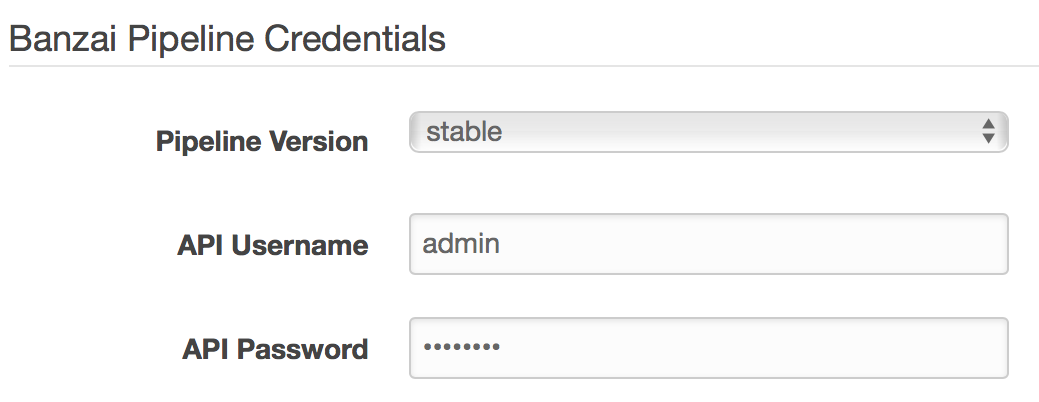
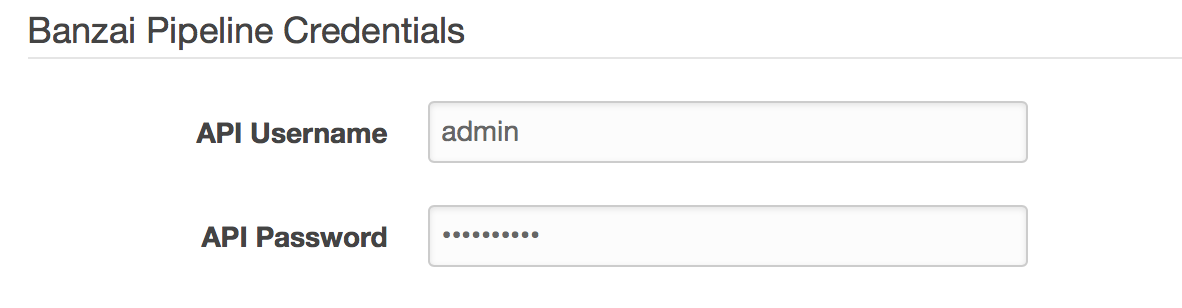
Pipeline 0.2.0 howto

diff --git a/docs/pipeline-howto-0.2.0.md b/docs/pipeline-howto-0.2.0.md
@@ -1,0 +1,320 @@
+Starting from the [0.2.0](https://github.com/banzaicloud/pipeline/tree/0.2.0) version Pipeline supports managed Kubernetes clusters on Azure ([AKS](https://docs.microsoft.com/en-us/azure/aks/) as well.
+
+For simplicity the instruction steps are presented through an example specifically how to hook a Spark application one develops into CI/CD workflow to run it on Kubernetes on Azure.
+
+### Getting Started
+
+It's assumed that the source of the Spark application is stored in [GitHub](http://github.com) and the user has an [Azure](https://portal.azure.com) subscription with AKS service enabled.
+The [Pipeline Control Plane](https://github.com/banzaicloud/pipeline-cp-launcher/tree/0.2.0) takes care of creating a Kubernetes cluster on the desired cloud provider and executing the steps of the CI/CD flow can be hosted on both `AWS` and `Azure`.
+See details below for how to launch `Pipeline Control Plane` on `AWS` and `Azure`.
+
+### Prerequisites
+
+1. Account on [GitHub](http://github.com)
+1. Repository on [GitHub](http://github.com) for the Spark application source code
+1. Hosting `Pipeline Control Plane` and creating Kubernetes clusters on `AWS`
+   1. [AWS](https://portal.aws.amazon.com/billing/signup?type=enterprise#/start) account
+   1. AWS [EC2 key pair](http://docs.aws.amazon.com/AWSEC2/latest/UserGuide/ec2-key-pairs.html)
+1. Hosting `Pipeline Control Plane` and creating Kubernetes clusters on `Azure`
+   1. [Azure](https://portal.azure.com) subscription with AKS service enabled.
+   1. Obtain a Client Id, Client Secret and Tenant Id for a Microsoft Azure Active Directory. These information can be retrieved from the portal, but the easiest and fastest way is to use the Azure CLI tool.<br>  
+    ```sh
+    curl -L https://aka.ms/InstallAzureCli | bash
+    exec -l $SHELL
+    az login
+
+    az ad sp create-for-rbac
+    ```
+    You should get something like:
+
+    ```json
+    {
+
+      "appId": "1234567-1234-1234-1234-1234567890ab",
+      "displayName": "azure-cli-2017-08-18-19-25-59",
+      "name": "http://azure-cli-2017-08-18-19-25-59",
+      "password": "1234567-1234-1234-be18-1234567890ab",
+      "tenant": "7654321-1234-1234-ee18-9876543210ab"
+    }
+    ```
+
+    * `appId` is the Azure Client Id
+    * `password` is the Azure Client Secret
+    * `tenant` is the Azure Tenant Id
+
+    In order to get Azure Subscription Id run:
+
+    ```sh
+    az account show --query id
+    ```
+
+### Register the OAuth application on GitHub
+
+Register an [OAuth](https://developer.github.com/apps/building-integrations/setting-up-and-registering-oauth-apps/registering-oauth-apps/) application on GitHub for the Pipeline CI/CD workflow.
+
+<a href="images/howto/OAuthAppReg.png" target="_blank"><img src="images/howto/OAuthAppReg.png" height="250"></a>
+
+Fill in `Authorization callback URL` with some dummy value at this stage. This field will be updated once the Control Plane is up and running using the IP address or the DNS name.
+
+Take note of the `Client ID` and `Client Secret` as these will be required for launching the Pipeline Control Plane.
+
+<a href="images/howto/OAuthAppId.png" target="_blank"><img src="images/howto/OAuthAppId.png" height="250"></a>
+
+### Launch Pipeline Control Plane on `AWS`
+
+The easiest way for running a Pipeline Control Plane is to use a [Cloudformation](https://aws.amazon.com/cloudformation/) template.
+
+* Navigate to: https://eu-west-1.console.aws.amazon.com/cloudformation/home?region=eu-west-1#/stacks/new
+
+* Select `Specify an Amazon S3 template URL` and add the URL to our template `https://s3-eu-west-1.amazonaws.com/cf-templates-grr4ysncvcdl-eu-west-1/2018026v2c-new.templatedf0gpwyv0gg`
+
+  <a href="images/howto/ControlPlaneFromTemplate.png" target="_blank"><img src="images/howto/ControlPlaneFromTemplate.png" height="230"></a>
+
+* Fill in the following fields on the form:
+
+  * **Stack name**
+    * specify a name for the Control Plane deployment
+
+      <a href="images/howto/StackName.png"><img src="images/howto/StackName.png" height="130"></a>
+
+  * **AWS Credentials**
+     * Amazon access key id - specify your [access key id](http://docs.aws.amazon.com/general/latest/gr/aws-sec-cred-types.html#access-keys-and-secret-access-keys)
+     * Amazon secret access key - specify your [secret access key](http://docs.aws.amazon.com/general/latest/gr/aws-sec-cred-types.html#access-keys-and-secret-access-keys)
+
+     <a href="images/howto/AwsCred.png"><img src="images/howto/AwsCred.png" height="150"></a>
+
+  * **Azure Credentials and Information** - _needed only for creating Kubernetes clusters on `Azure`_
+     * AzureClientId - see how to get Azure Client Id above
+     * AzureClientSecret - see how to get Azure Client Secret above
+     * AzureSubscriptionId - your Azure Subscription Id
+     * AzureTenantId - see how to get Azure Client Tenant Id above
+
+     <a href="images/howto/AzureCred.png"><img src="images/howto/AzureCred.png" height="200"></a>
+
+  * **Control Plane Instance Config**
+     * InstanceName - name of the EC2 instance that will host the Control Plane
+     * ImageId - pick the image id from the  [README](https://github.com/banzaicloud/pipeline-cp-launcher/blob/0.2.0/README.md)
+     * KeyName - specify your AWS [EC2 key pair](http://docs.aws.amazon.com/AWSEC2/latest/UserGuide/ec2-key-pairs.html)
+
+     <a href="images/howto/ControlPlaneInstanceConfig.png"><img src="images/howto/ControlPlaneInstanceConfig.png" height="180"></a>
+
+  * **Banzai Pipeline Credentials**
+     * Pipeline API Password - specify the password for accessing the Pipeline REST [API](https://github.com/banzaicloud/pipeline/blob/0.2.0/docs/create.md) exposed by the Pipeline PaaS. **_Take note of the user name and password as those will be required when setting the [secrets](#repository-secrets) for the GitHub repositories in the CI/CD workflow._**
+
+      <a href="images/howto/PipelineCred.png"><img src="images/howto/PipelineCred.png" height="150"></a>
+
+  * **Banzai-Ci Credentials**
+     * Orgs - comma-separated list of Github organizations whose members to grant access to use Banzai Cloud Pipeline's CI/CD workflow
+     * Github Client - GitHub OAuth `Client Id`
+     * Github Secret - Github OAuth `Client Secret`
+
+      <a href="images/howto/CloudFormulationDetails3.png"><img src="images/howto/CloudFormulationDetails3.png" height="150"></a>
+
+  * **Grafana Dashboard**
+     * Grafana Dashboard Password - specify password for accessing Grafana dashboard with defaults specific to the application
+
+     <a href="images/howto/GrafanaCred.png"><img src="images/howto/GrafanaCred.png" height="100"></a>
+
+  * **Prometheus Dashboard**
+     * Prometheus Password - specify password for accessing Prometheus that collects cluster metrics
+
+      <a href="images/howto/PrometheusCred.png"><img src="images/howto/PrometheusCred.png" height="100"></a>
+
+  * **Advanced Pipeline Options**
+     * PipelineImageTag - specify `0.2.0` for using current stable Pipeline release.
+
+     <a href="images/howto/AdvencedPipOpt.png"><img src="images/howto/AdvencedPipOpt.png" height="150"></a>
+
+  * **Slack Credentials**
+       * this section is optional. Complete this section to receive  cluster related alerts through a [Slack](https://slack.com) push notification channel.
+
+  * **Alert SMTP Credentials**
+     * this section is optional. Fill this section to receive cluster related alerts through email.
+
+* Finish the wizard to create a `Control Plane` instance.
+* Take note of the PublicIP of the created Stack. We refer to this as the PublicIP of `Control Plane`.
+
+    <a href="images/howto/CloudFormulationDetails5.png"><img src="images/howto/CloudFormulationDetails5.png" height="250"></a>
+
+* Go back to the earlier created GitHub OAuth application and modify it. Set the `Authorization callback URL` field to `http://{control_plane_public_ip}/authorize`
+
+  <a href="images/howto/OAuthCallback.png"><img src="images/howto/OAuthCallback.png" height="70"></a>
+
+### Launch Pipeline Control Plane on `Azure`
+
+The easiest way for running a Pipeline Control Plane is deploying it using an [ARM](https://docs.microsoft.com/en-us/azure/azure-resource-manager/resource-group-overview)(https://aws.amazon.com/cloudformation/) template.
+
+* Navigate to: https://portal.azure.com/#create/Microsoft.Template
+
+* Click `Build your own template in editor` and copy-paste the content of [ARM template](https://raw.githubusercontent.com/banzaicloud/pipeline-cp-launcher/0.2.0/control-plane-arm.json) into the editor then click `Save`
+
+  <a href="images/howto/ARMCreate.png" target="_blank"><img src="images/howto/ARMCreate.png" height="130"></a><br>
+  <a href="images/howto/ARMEditor.png" target="_blank"><img src="images/howto/ARMEditor.png" height="230"></a>
+
+  * **Resource group** - We recommend creating a new `Resource Group` for the deployment as later will be easier to clean up all the resources created by the deployment
+
+    <a href="images/howto/ARMRGroup.png" target="_blank"><img src="images/howto/ARMRGroup.png" height="180"></a>
+
+  * **Specify SSH Public Key**
+
+    <a href="images/howto/ARMPubKey.png" target="_blank"><img src="images/howto/ARMPubKey.png" height="110"></a>
+
+  * **SMTP Server Address/User/Password/From**
+    * these are optional. Fill this section to receive cluster related alerts through email.
+
+  * **Slack Webhook Url/Channel**
+    * this section is optional. Complete this section to receive  cluster related alerts through a [Slack](https://slack.com) push notification channel.
+
+  * **Banzai Pipeline Credentials**
+     
+     * Pipeline Password - specify the password for accessing the Pipeline REST [API](https://github.com/banzaicloud/pipeline/blob/0.2.0/docs/create.md) exposed by the Pipeline PaaS. **_Take note of the user name and password as those will be required when setting the [secrets](#repository-secrets) for the GitHub repositories in the CI/CD workflow._**
+
+      <a href="images/howto/ARMPiCred.png"><img src="images/howto/ARMPiCred.png" height="70"></a>
+
+   * **Prometheus Dashboard**
+     * Prometheus Password - specify password for accessing Prometheus that collects cluster metrics
+
+      <a href="images/howto/ARMPrometheusCred.png"><img src="images/howto/ARMPrometheusCred.png" height="70"></a>
+
+  * **Grafana Dashboard**
+     * Grafana Dashboard Password - specify password for accessing Grafana dashboard with defaults specific to the application
+
+     <a href="images/howto/ARMGrafanaCred.png"><img src="images/howto/ARMGrafanaCred.png" height="70"></a>
+  
+  * **Banzai-Ci Credentials**
+     * Orgs - comma-separated list of Github organizations whose members to grant access to use Banzai Cloud Pipeline's CI/CD workflow
+     * Github Client - GitHub OAuth `Client Id`
+     * Github Secret - Github OAuth `Client Secret`
+
+      <a href="images/howto/ARMCICD.png"><img src="images/howto/ARMCICD.png" height="90"></a>
+
+  * **Azure Credentials and Information**
+     * Azure Client Id - see how to get Azure Client Id above
+     * Azure Client Secret - see how to get Azure Client Secret above
+     * Azure Subscription Id - your Azure Subscription Id
+     * Azure Tenant Id - see how to get Azure Tenant Id above
+
+     <a href="images/howto/images/howto/ARMAzureCreds.png"><img src="images/howto/ARMAzureCreds.png" height="130"></a>
+
+  * Finish the wizard to create a `Control Plane` instance.
+  * Open the `Resource Group` that was specified for the deployment
+
+      <a href="images/howto/CPRGroup.png"><img src="images/howto/CPRGroup.png" height="90"></a>
+
+  * Take note of the PublicIP of the deployed `Control Plane`.
+
+    <a href="images/howto/AzureCPPubIP.png"><img src="images/howto/AzureCPPubIP.png" height="200"></a>
+
+### Define `.pipeline.yml` pipeline workflow configuration for your Spark application
+
+The steps of the workflow executed by the CI/CD flow are described in the  `.pipeline.yml` file that must be placed under the root directory of the source code of the Spark application. The file has to be pushed into the GitHub repo along with the source files of the application.
+
+There is an example Spark application [spark-pi-example](https://github.com/banzaicloud/spark-pi-example/tree/0.2.0) that can be used for trying out the CI/CD pipeline.
+
+>Note: Fork this repository into your own repository for this purpose!).
+
+For setting up your own spark application for the workflow you can start from the `.pipeline.yml` configuration file from `spark-pi-example` and customize it.
+
+The following sections needs to be modified:
+
+- the command for building your application
+
+  ```yaml
+  remote_build:
+    ...
+    original_commands:
+      - mvn clean package -s settings.xml
+  ```
+
+- the Main class of your application
+
+  ```yaml
+  run:
+    ...
+    spark_class: banzaicloud.SparkPi
+  ```
+
+- the name of your application
+
+  ```yaml
+  run:
+    ...
+    spark_app_name: sparkpi
+  ```
+
+- the application artifact
+
+  This is the relative path to the `jar` of your Spark application. This is the `jar` generated by the [build command](#command-for-building-your-application)
+
+  ```yaml
+  run:
+    ...
+    spark_app_source: target/spark-pi-1.0-SNAPSHOT.jar
+  ```
+
+-  the application arguments
+
+  ```yaml
+  run:
+    ...
+    spark_app_args: 1000
+  ```
+
+### Grant access to desired GitHub organizations
+
+Navigate to `http://{control_plane_public_ip}` in your web browser and grant access for the organizations that contain the GitHub repositories that you want to hook into the CI/CD workflow. Then click authorize access.
+
+All the services of the Pipeline may take some time to fully initialize, thus the page may not load at first. Please give it some time and retry.
+
+### Hook repositories to CI/CD flow
+
+Navigate to `http://{control_plane_public_ip}`  - this will bring you to the CI/CD user interface. Select `Repositories` from top left menu. This will list all the repositories that the Pipeline has access to.
+Select repositories desired to be hooked to the CI/CD flow.
+
+<a href="images/howto/EnableRepoCI.png" target="_blank"><img src="images/howto/EnableRepoCI.png"></a>
+
+### CI/CD secrets
+
+For the hooked repositories set the following secrets :
+
+<a href="images/howto/RepoSecretCI.png" target="_blank"><img src="images/howto/RepoSecretCI.png"></a>
+<a href="images/howto/RepoSecretMenuCI.png" target="_blank"><img src="images/howto/RepoSecretMenuCI.png"></a>
+
+* `plugin_endpoint` - specify `http://{control_plane_public_ip}/pipeline/api/v1`
+
+  <a href="images/howto/RepoSecretPluginEndPointCI.png" target="_blank"><img src="images/howto/RepoSecretPluginEndPointCI.png"></a>
+
+* `plugin_username` - specify the same user name as for **Banzai Pipeline Credentials**
+
+  <a href="images/howto/RepoSecretPluginUserNameCI.png" target="_blank"><img  src="images/howto/RepoSecretPluginUserNameCI.png"></a>
+
+* `plugin_password` - specify the same password as for **Banzai Pipeline Credentials**
+
+  <a href="images/howto/RepoSecretPluginPasswordCI.png" target="_blank"><img src="images/howto/RepoSecretPluginPasswordCI.png"></a>
+
+### Submit your changes
+
+Modify the source code of your Spark application, commit the changes and push it to the repository on GitHub. The Pipeline gets notified through GitHub webhooks about the commits and will trigger the flow described in the `.pipeline.yml` file of the watched repositories.
+
+### Monitor running workflows
+
+The running CI/CD jobs can be monitored and managed at `http://{control_plane_public_ip}/account/repos`
+
+
+<a href="images/howto/BuildMenuCI.png" target="_blank"><img src="images/howto/BuildMenuCI.png"></a>
+
+<a href="images/howto/JobCI.png" target="_blank"><img src="images/howto/JobCI.png"></a>
+
+In order to check the logs of the CI/CD workflow steps, click on the desired commit message on the UI.
+
+<a href="images/howto/JobCIBuild.png"><img src="images/howto/JobCIBuild.png"></a>
+<br>
+<a href="images/howto/SparkPiSuccess.png"><img src="images/howto/SparkPiSuccess.png" height="370"></a>
+
+Once configured the Spark application will be built, deployed and executed for every commit pushed to the project's repository. The progress of the workflow can be followed by clicking on the small orange dot beside the commit on the GitHub UI.
+
+Our git repos with example projects that contain pipeline workflow configurations:
+
+- [Spark PDI Example](https://github.com/banzaicloud/spark-pdi-example/tree/0.2.0)
+- [Zeppelin PDI Example](https://github.com/banzaicloud/zeppelin-pdi-example/tree/0.2.0)
+- [Spark Pi Example](https://github.com/banzaicloud/spark-pi-example/tree/0.2.0)
